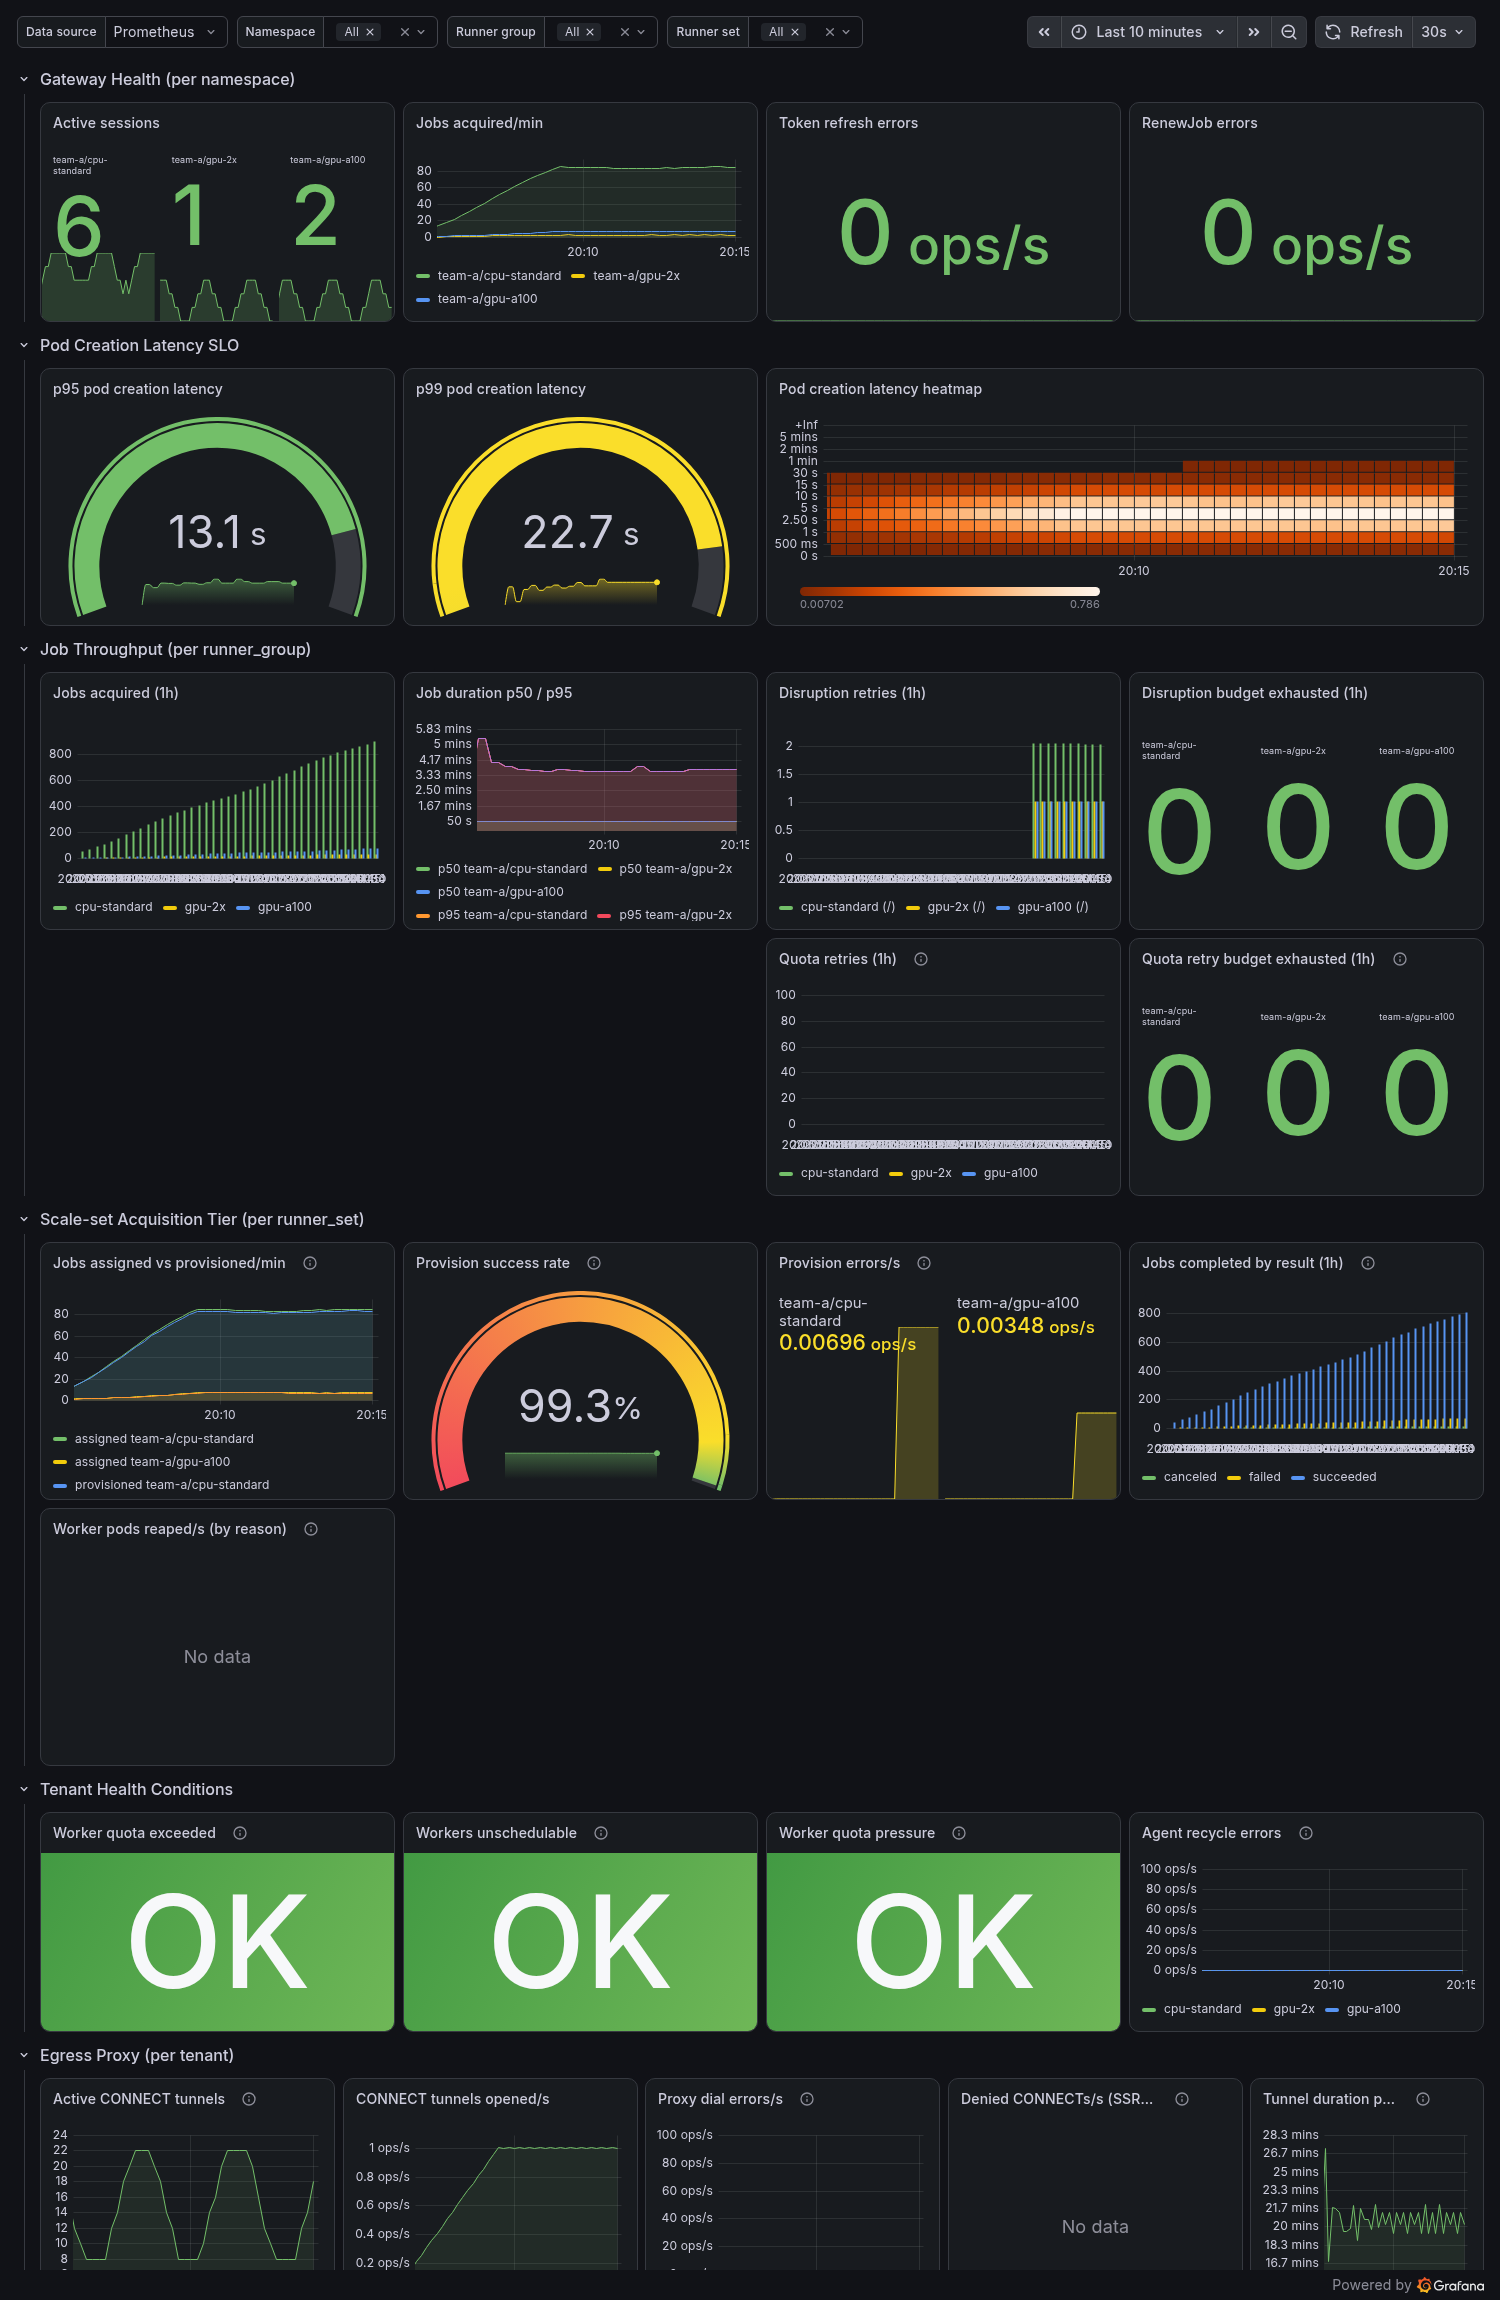
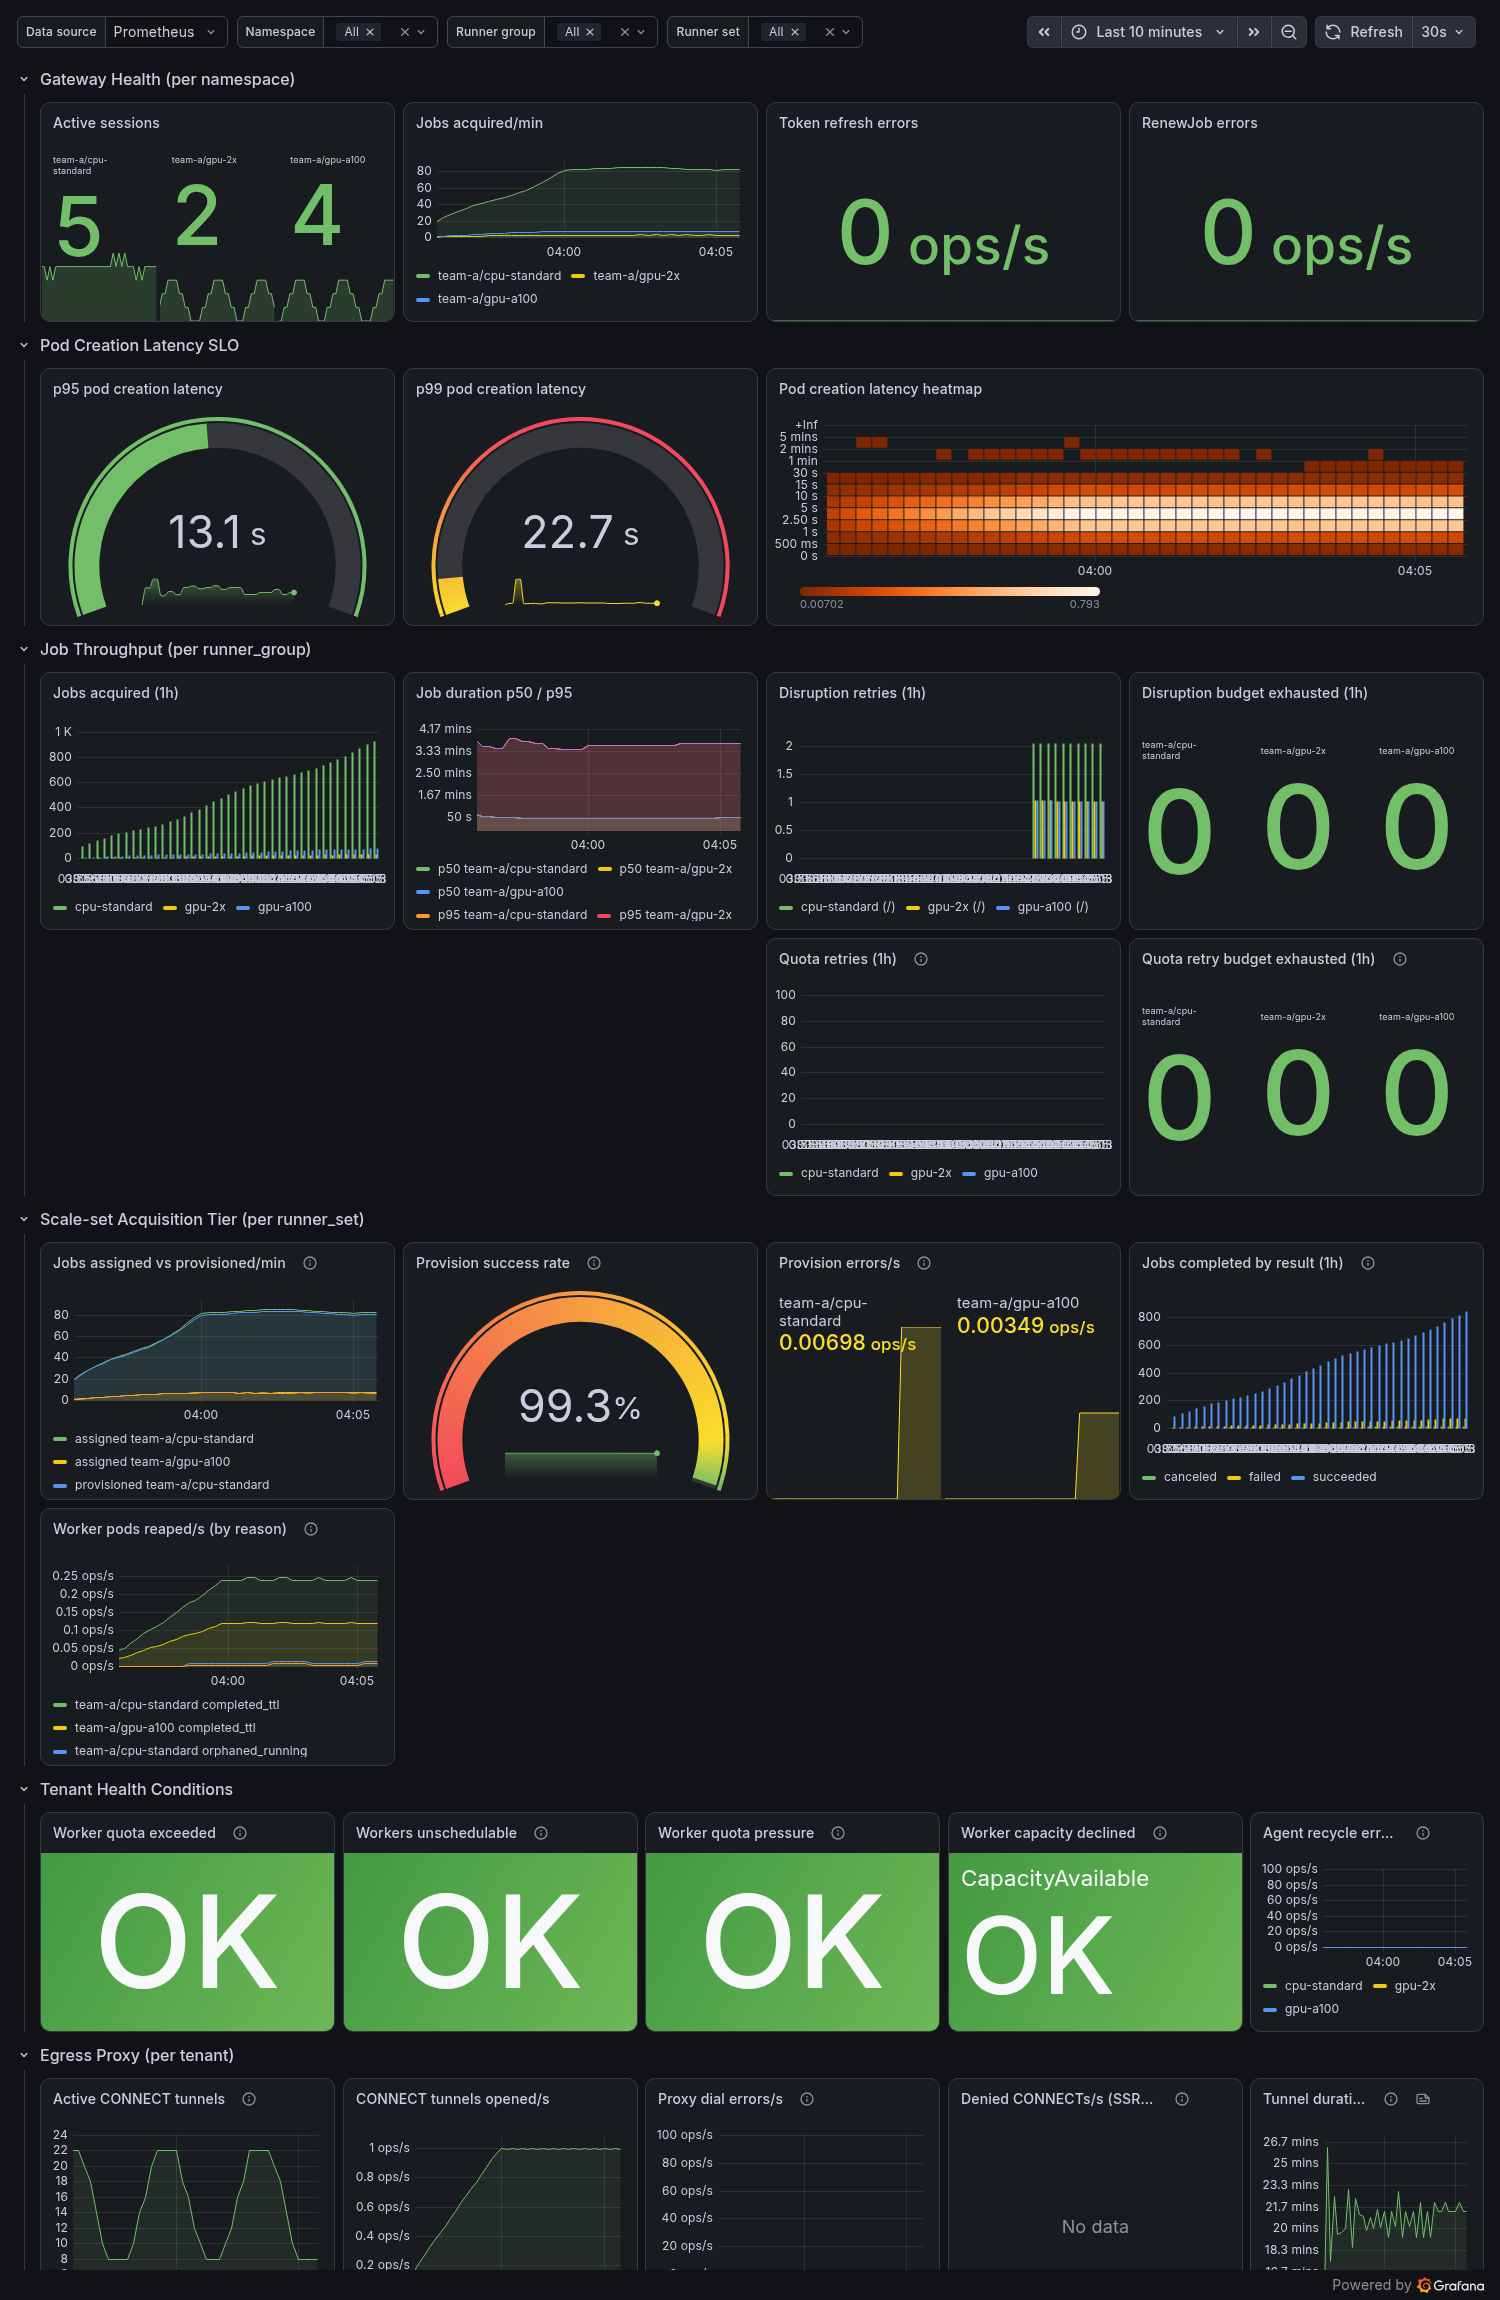
fix(monitoring): populate the scale-set reap panel and gauge the capacity gate (Q651, Q658)
The Q514 panel filters worker_pods_reaped_total on runner_set!="", but the
preview exporter emitted that counter with namespace, runner_group and reason
only. An absent label does not satisfy !="", so the panel read No data on every
shipped screenshot. Emit all four labels the real counter carries, with
runner_set empty on classic reaps and the CR name on scale-set reaps.

Q643 gauged WorkerCapacityDeclined and nothing displayed it. Add a tenant tile
for actions_gateway_runnerset_worker_capacity_declined grouped by reason, plus
a preview series for a gated subset of scale sets — the collector emits the
family only for a set that opted in, so emitting it for every set would read an
absent series as a healthy zero.

The condition row re-flows to 4xw5 + w4, the shape the Egress Proxy row already
uses, rather than growing a fifth w6 tile. Every gridPos change lands on y=46:
nothing below moves and the dashboard's total height is unchanged, so the
render's HEIGHT still frames it.

Tenant screenshot re-shot from render.sh against the real kube-prometheus-stack.

diff --git a/deploy/monitoring/preview/exporter.py b/deploy/monitoring/preview/exporter.py
@@ -29,6 +29,11 @@ SCALESETS = [
     ("team-b", "cpu-standard"),
 ]
 
+# The worker-capacity gate is opt-in, and the collector emits its gauge only for a
+# RunnerSet that enables one (Q643). Gate a subset so the preview shows the tile
+# populated without implying every set carries the condition.
+GATED_SCALESETS = {("team-a", "gpu-a100"), ("team-b", "cpu-standard")}
+
 POD_BUCKETS = [0.5, 1, 2.5, 5, 10, 15, 30, 60, 120, 300]   # +Inf appended
 JOB_BUCKETS = [1, 2, 4, 8, 16, 32, 64, 128, 256, 512, 1024, 2048]
 PROXY_BUCKETS = [0.1, 0.5, 1, 5, 10, 60, 300, 1800, 3600, 21600]
@@ -118,9 +123,11 @@ def render():
         # single-use JIT agent recycling: routine post-job recycles, no errors
         L.append(f'actions_gateway_agent_recycles_total{{namespace="{ns}",runner_group="{rg}",trigger="post_job"}} {int(0.15 * elapsed)}')
         L.append(f'actions_gateway_agent_recycle_errors_total{{namespace="{ns}",runner_group="{rg}"}} 0')
-        # worker-pod reaper: routine completed_ttl cleanup, occasional pending_deadline
-        L.append(f'actions_gateway_worker_pods_reaped_total{{namespace="{ns}",runner_group="{rg}",reason="completed_ttl"}} {int(0.14 * elapsed)}')
-        L.append(f'actions_gateway_worker_pods_reaped_total{{namespace="{ns}",runner_group="{rg}",reason="pending_deadline"}} {int(0.0002 * elapsed)}')
+        # worker-pod reaper: routine completed_ttl cleanup, occasional pending_deadline.
+        # The real counter always carries all four labels; runner_set is empty on the
+        # classic tier and non-empty only on scale-set reaps (Q514).
+        L.append(f'actions_gateway_worker_pods_reaped_total{{namespace="{ns}",runner_group="{rg}",runner_set="",reason="completed_ttl"}} {int(0.14 * elapsed)}')
+        L.append(f'actions_gateway_worker_pods_reaped_total{{namespace="{ns}",runner_group="{rg}",runner_set="",reason="pending_deadline"}} {int(0.0002 * elapsed)}')
         # broker OAuth token-propagation retries during recycle churn (Q267)
         L.append(f'actions_gateway_broker_token_propagation_retries_total{{namespace="{ns}",runner_group="{rg}"}} {int(0.004 * elapsed)}')
         # fan-out safety trio (Q260 / Q266): benign steady rates during bursts
@@ -153,6 +160,16 @@ def render():
         L.append(f'actions_gateway_runnerset_worker_quota_pressure{{namespace="{ns}",runner_set="{rs}"}} 0')
         L.append(f'actions_gateway_runnerset_worker_quota_exceeded{{namespace="{ns}",runner_set="{rs}"}} 0')
         L.append(f'actions_gateway_runnerset_workers_unschedulable{{namespace="{ns}",runner_set="{rs}"}} 0')
+        # Scale-set reaps carry the CR name on both runner_group and runner_set, which
+        # is what joins them to the runner_set-labelled gauges above (Q514/Q651).
+        # orphaned_running is the scale-set-specific reason: a worker that registered
+        # but never received its job.
+        L.append(f'actions_gateway_worker_pods_reaped_total{{namespace="{ns}",runner_group="{rs}",runner_set="{rs}",reason="completed_ttl"}} {int(0.12 * elapsed)}')
+        L.append(f'actions_gateway_worker_pods_reaped_total{{namespace="{ns}",runner_group="{rs}",runner_set="{rs}",reason="orphaned_running"}} {int(0.005 * elapsed)}')
+        # Opt-in capacity gate healthy: condition False with the reason that says the
+        # gate evaluated and found room, not the latched AwaitingProbe (Q512/Q643).
+        if (ns, rs) in GATED_SCALESETS:
+            L.append(f'actions_gateway_runnerset_worker_capacity_declined{{namespace="{ns}",runner_set="{rs}",reason="CapacityAvailable"}} 0')
 
     # Per-tenant egress proxy. The proxy exposes no intrinsic namespace label, but
     # the per-tenant ServiceMonitor stamps one from the scrape target's namespace

diff --git a/docs/operations/observability-dashboards.md b/docs/operations/observability-dashboards.md
@@ -68,14 +68,26 @@ The default acquisition protocol (Q264). These panels are the scale-set analog o
 | Worker quota exceeded | `max(actions_gateway_worker_quota_exceeded or actions_gateway_runnerset_worker_quota_exceeded)` | Stat (1 = red) |
 | Workers unschedulable | `max(actions_gateway_workers_unschedulable or actions_gateway_runnerset_workers_unschedulable)` | Stat (1 = red) |
 | Worker quota pressure | `max(actions_gateway_worker_quota_pressure or actions_gateway_runnerset_worker_quota_pressure)` | Stat (1 = yellow) |
+| Worker capacity declined | `max by (reason) (actions_gateway_runnerset_worker_capacity_declined)` | Stat (1 = orange), reason shown beside the value |
 | Agent recycle errors | `rate(actions_gateway_agent_recycle_errors_total[5m])` | Time series |
 
-> The three capacity panels union the v1 `RunnerGroup` family with its
+> The first three capacity panels union the v1 `RunnerGroup` family with its
 > `actions_gateway_runnerset_*` v2 twin (Q319). The two families key on different
 > labels — `runner_group` and `runner_set` — so `or` unions rather than overlaps them,
 > and a panel that named only the v1 family would read a flat `0` on a v2-only deploy.
 > To break either out per owner, replace `max(...)` with
 > `max by (namespace, runner_set) (actions_gateway_runnerset_...)`.
+
+> **Worker capacity declined has no v1 twin, and `No data` is a normal reading**
+> (Q643, Q658). The [gauge](observability-metrics.md) is emitted only for a
+> `RunnerSet` that set `spec.capacityGate.mode`, so an empty panel means no set
+> opted in, not that the query is broken. It groups by `reason` rather than
+> reducing to a bare `0`/`1` because the value alone cannot separate a live decline
+> from the latched `AwaitingProbe` state, and those call for different actions;
+> exactly one series exists per gated set, so `max by (reason)` cannot double-count.
+> The `1` is orange rather than red on purpose: a latched gate is
+> [throttling intake, not failing](troubleshooting.md#runnerset-reports-workercapacitydeclined-the-gateway-stopped-claiming-jobs),
+> and it can sit `True` indefinitely on an idle set whose shape stays unplaceable.
 
 **Row 6 — Egress Proxy (per tenant)**
 
